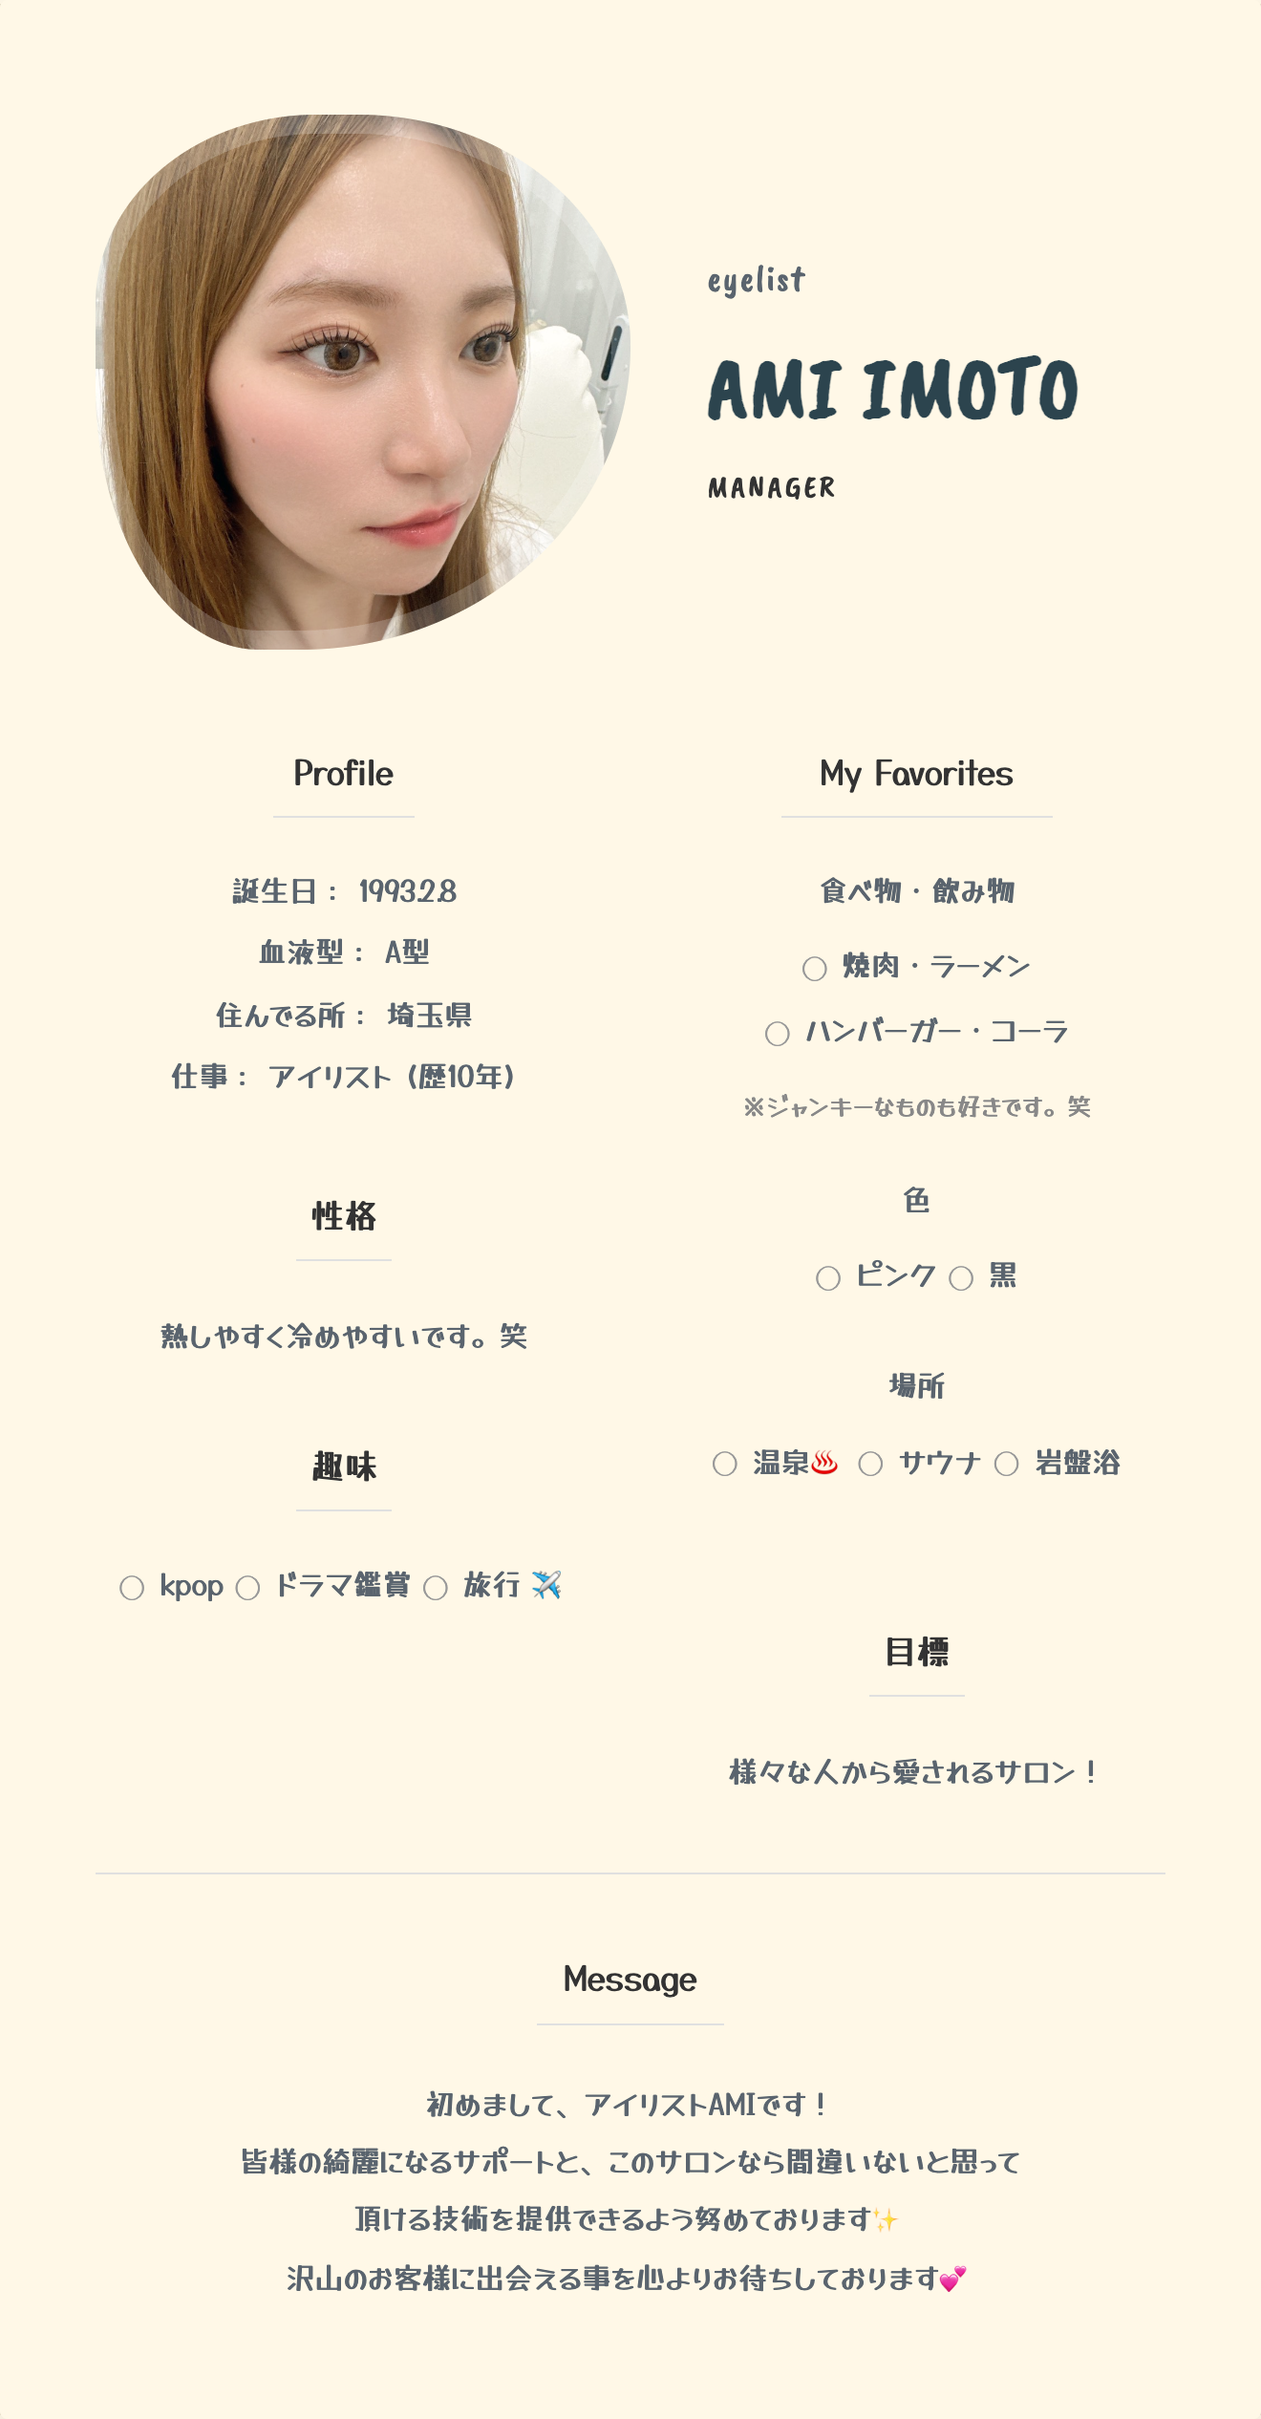
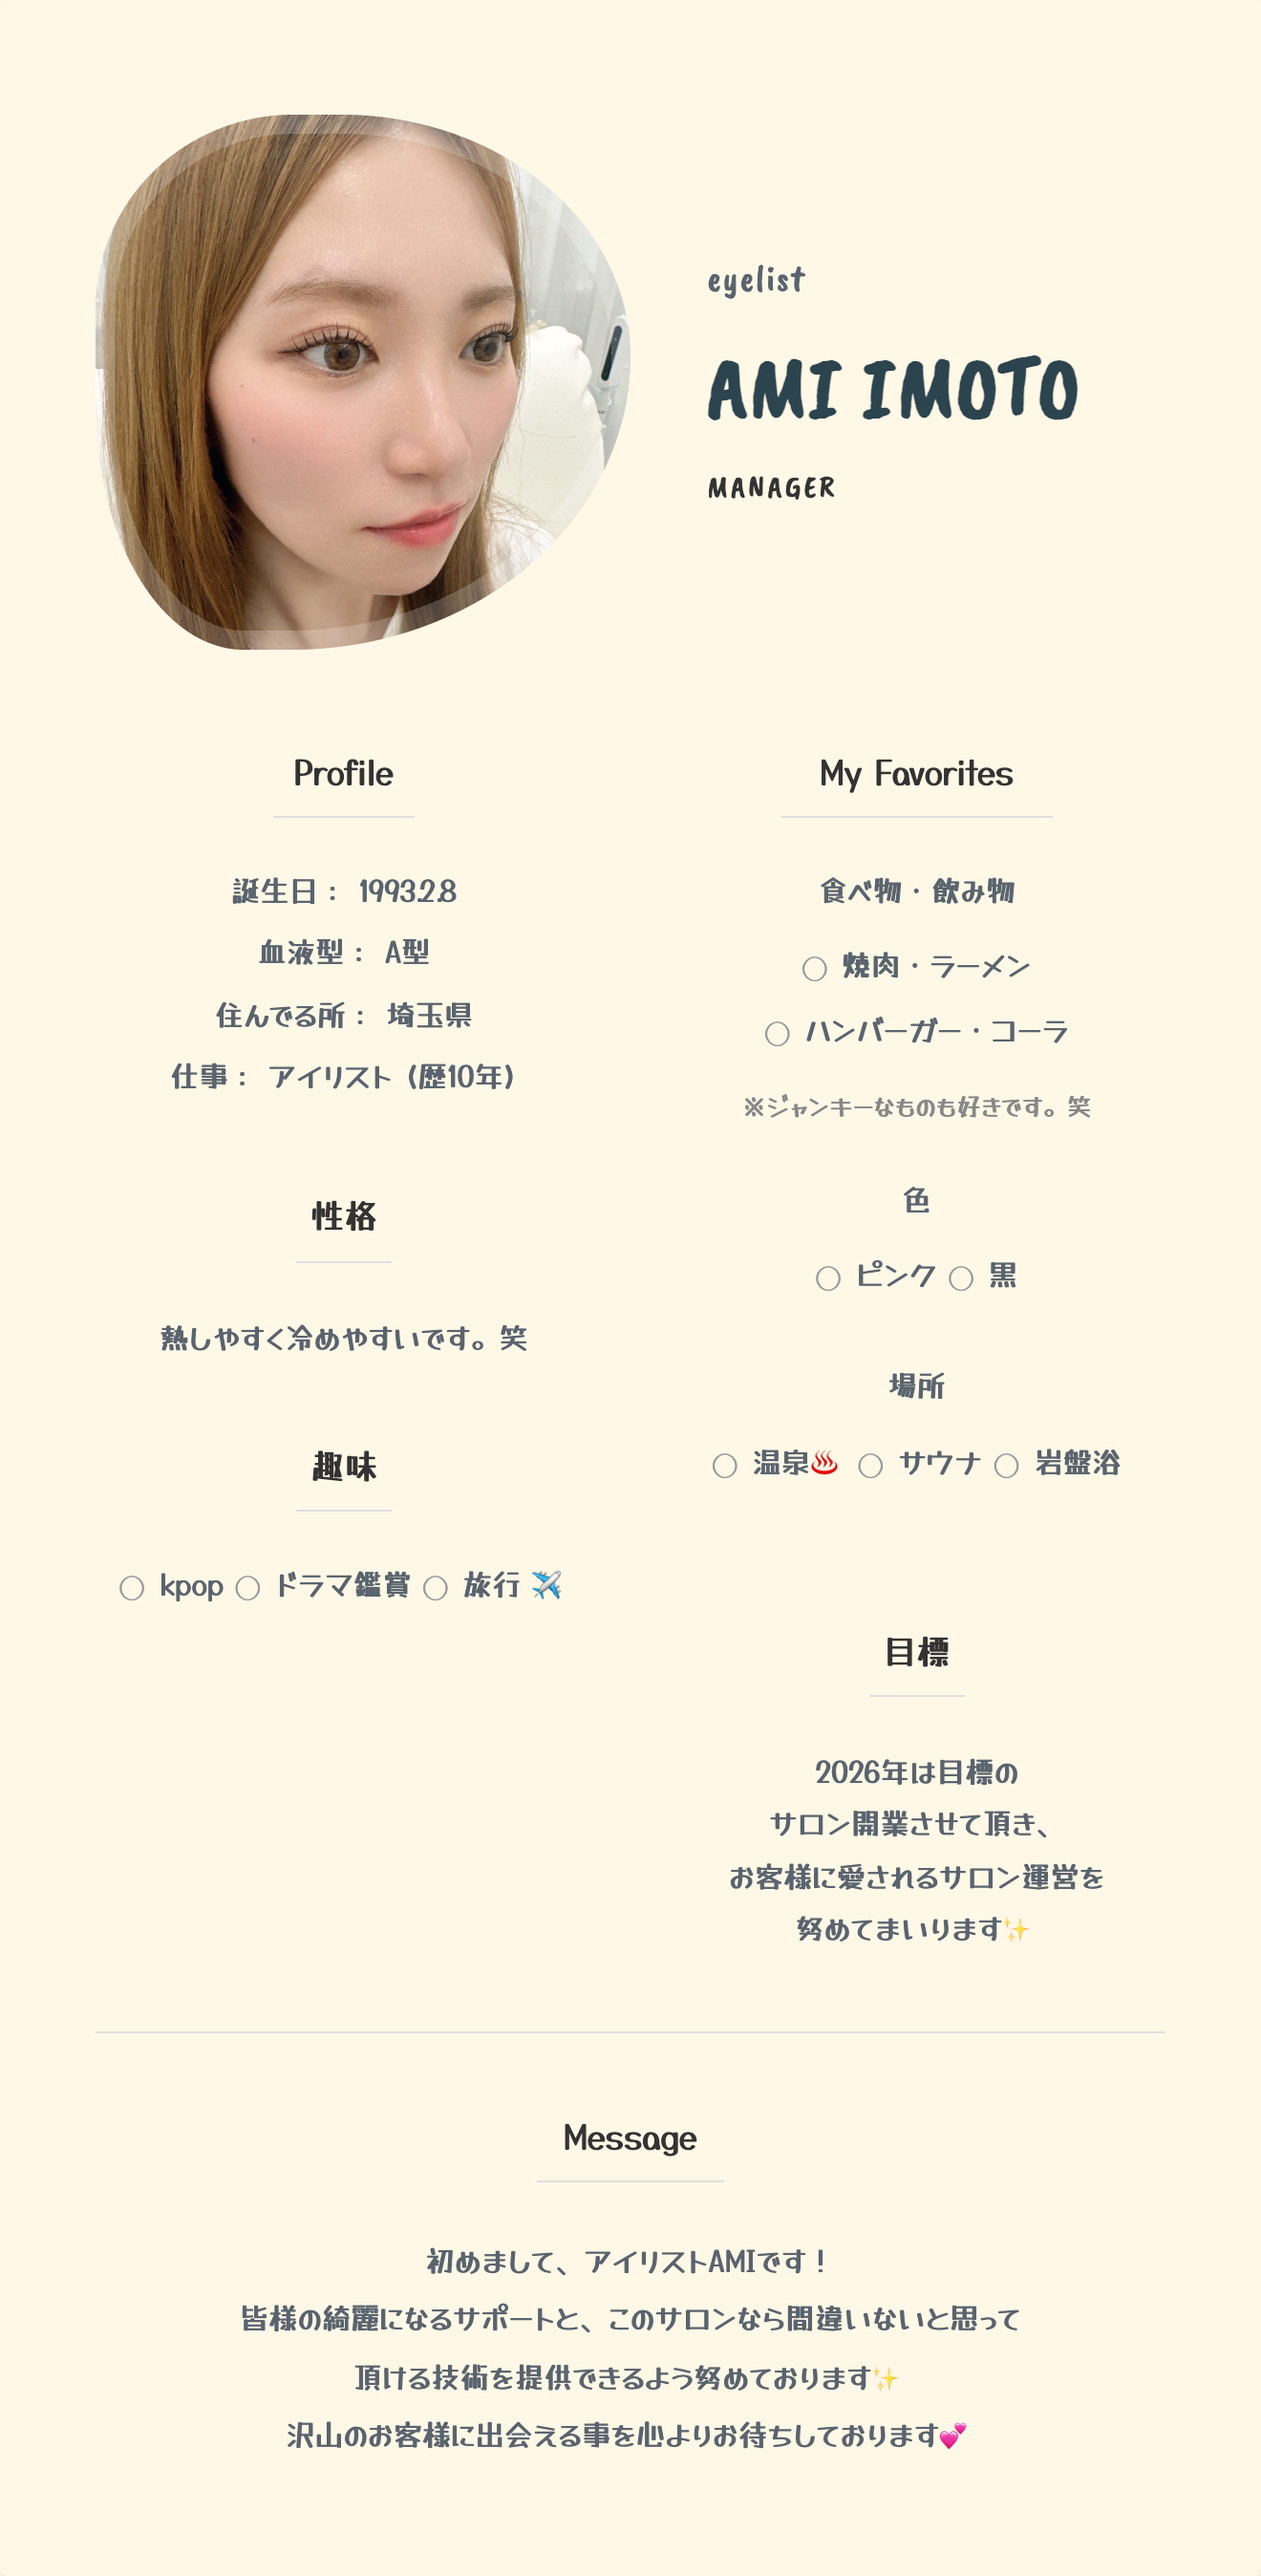
プロフィール修正

diff --git a/profile.html b/profile.html
@@ -80,7 +80,7 @@
 
                     <section class="info-block">
                         <h2 class="section-title">目標</h2>
-                        <p class="section-text">様々な人から愛されるサロン！</p>
+                        <p class="section-text">2026年は目標の<br>サロン開業させて頂き、<br>お客様に愛されるサロン運営を<br>努めてまいります✨</p>
                     </section>
                 </div>
             </div>
@@ -89,9 +89,6 @@
                 <section class="info-block message-block">
                     <h2 class="section-title">Message</h2>
                     <p class="message-text">初めまして、アイリストAMIです！<br>皆様の綺麗になるサポートと、このサロンなら間違いないと思って<br>頂ける技術を提供できるよう努めております✨<br>沢山のお客様に出会える事を心よりお待ちしております💕</p>
-                    <div style="text-align: center; margin-top: 40px;">
-                        <a href="sns.html" class="button-link">SNS & LINE 予約はこちら</a>
-                    </div>
                 </section>
             </div>
         </div>
